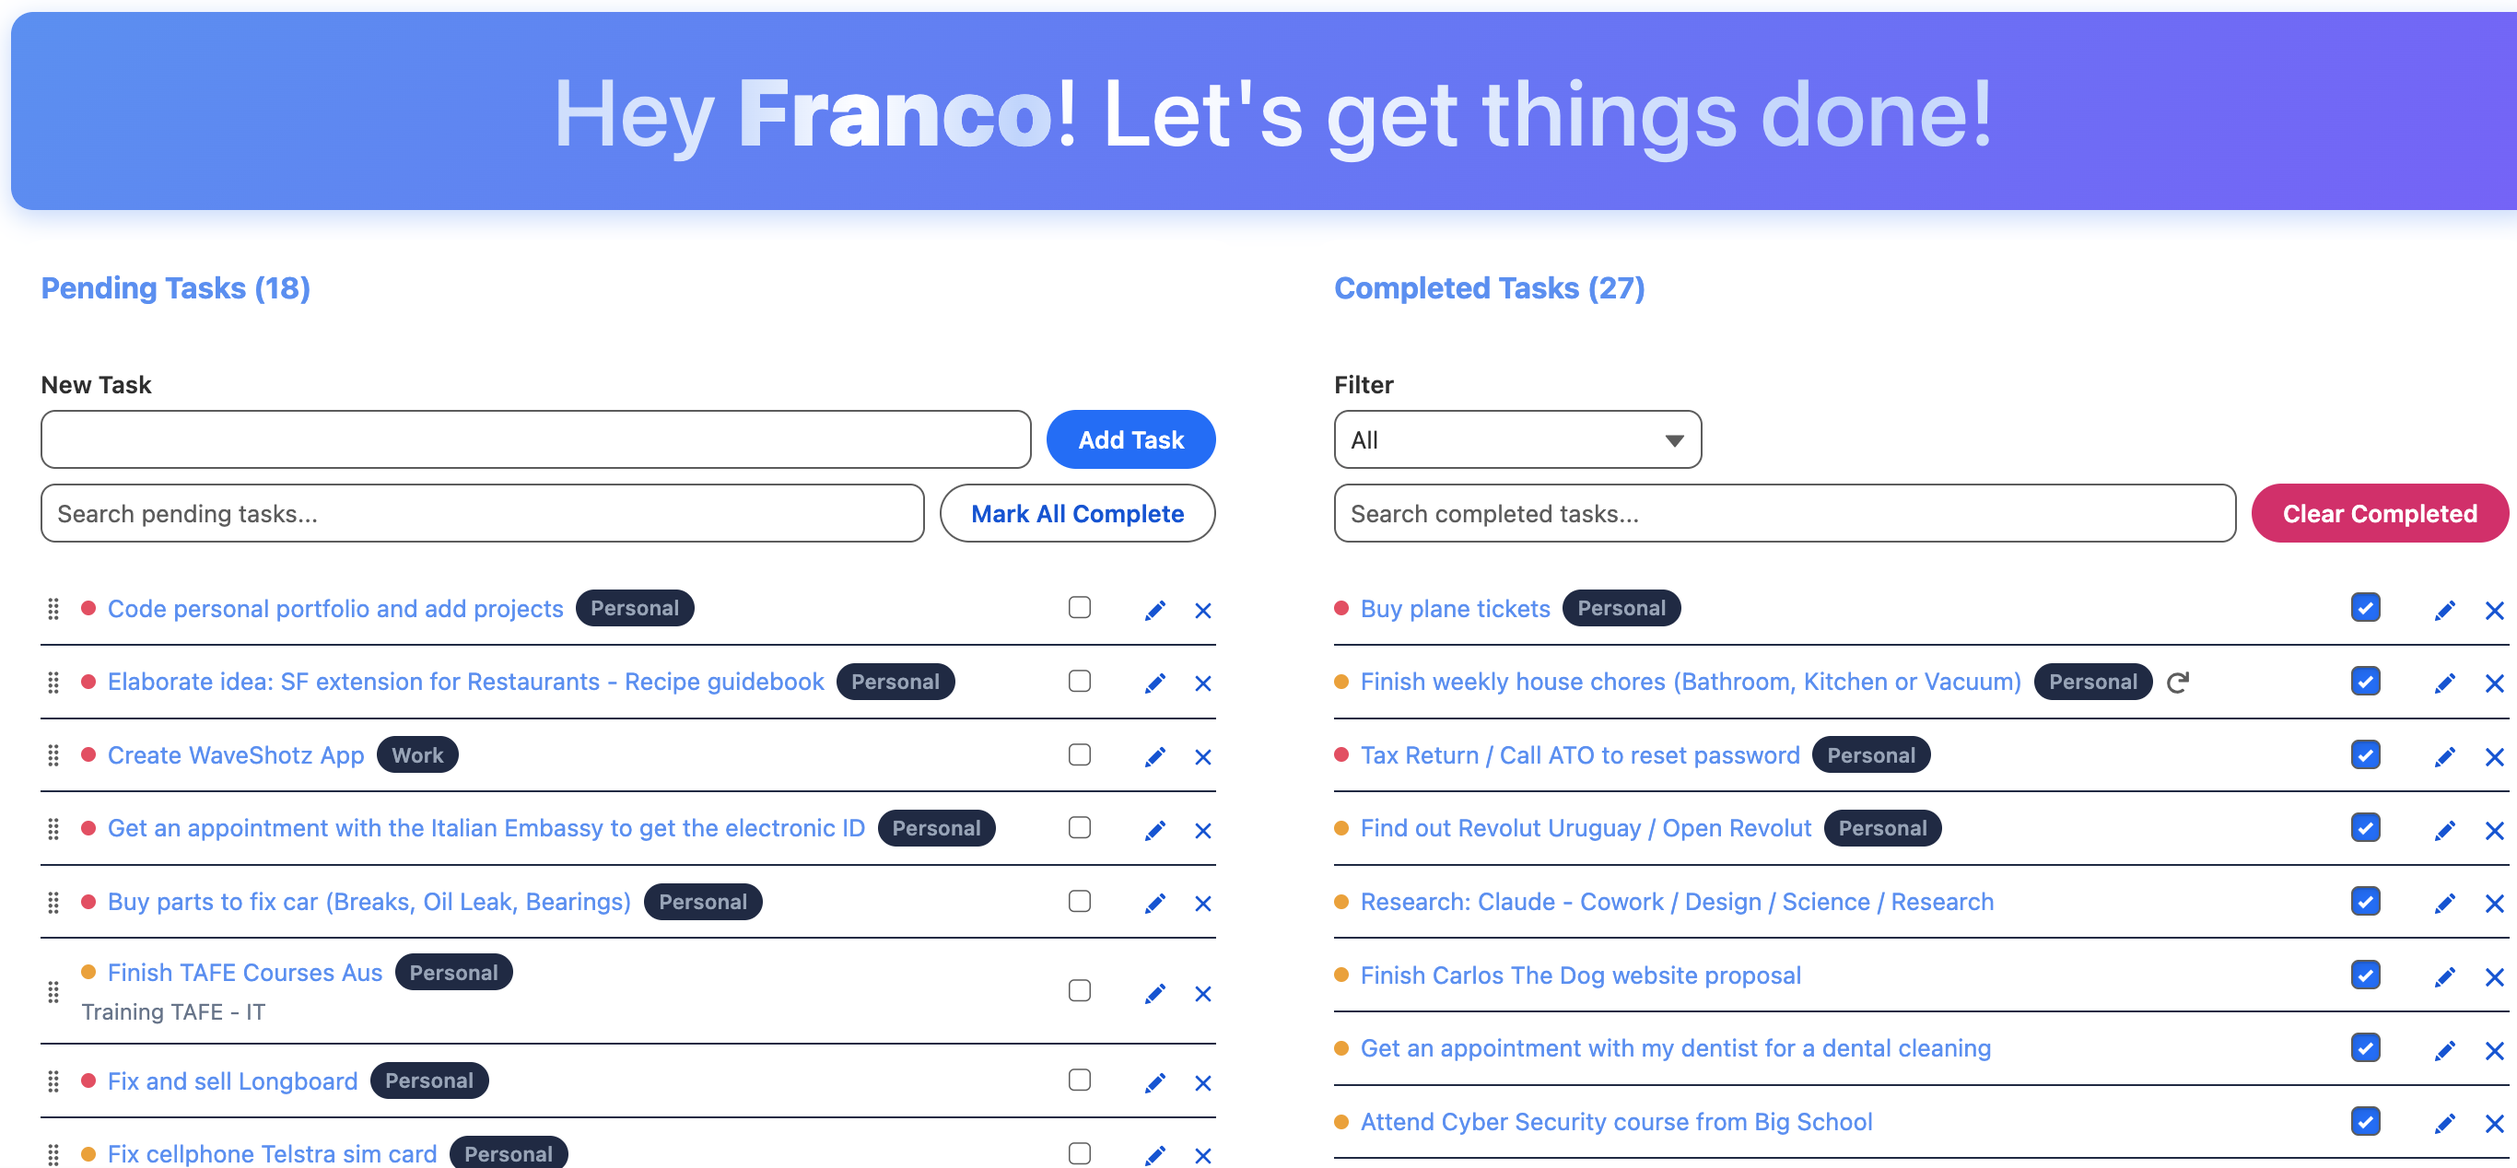
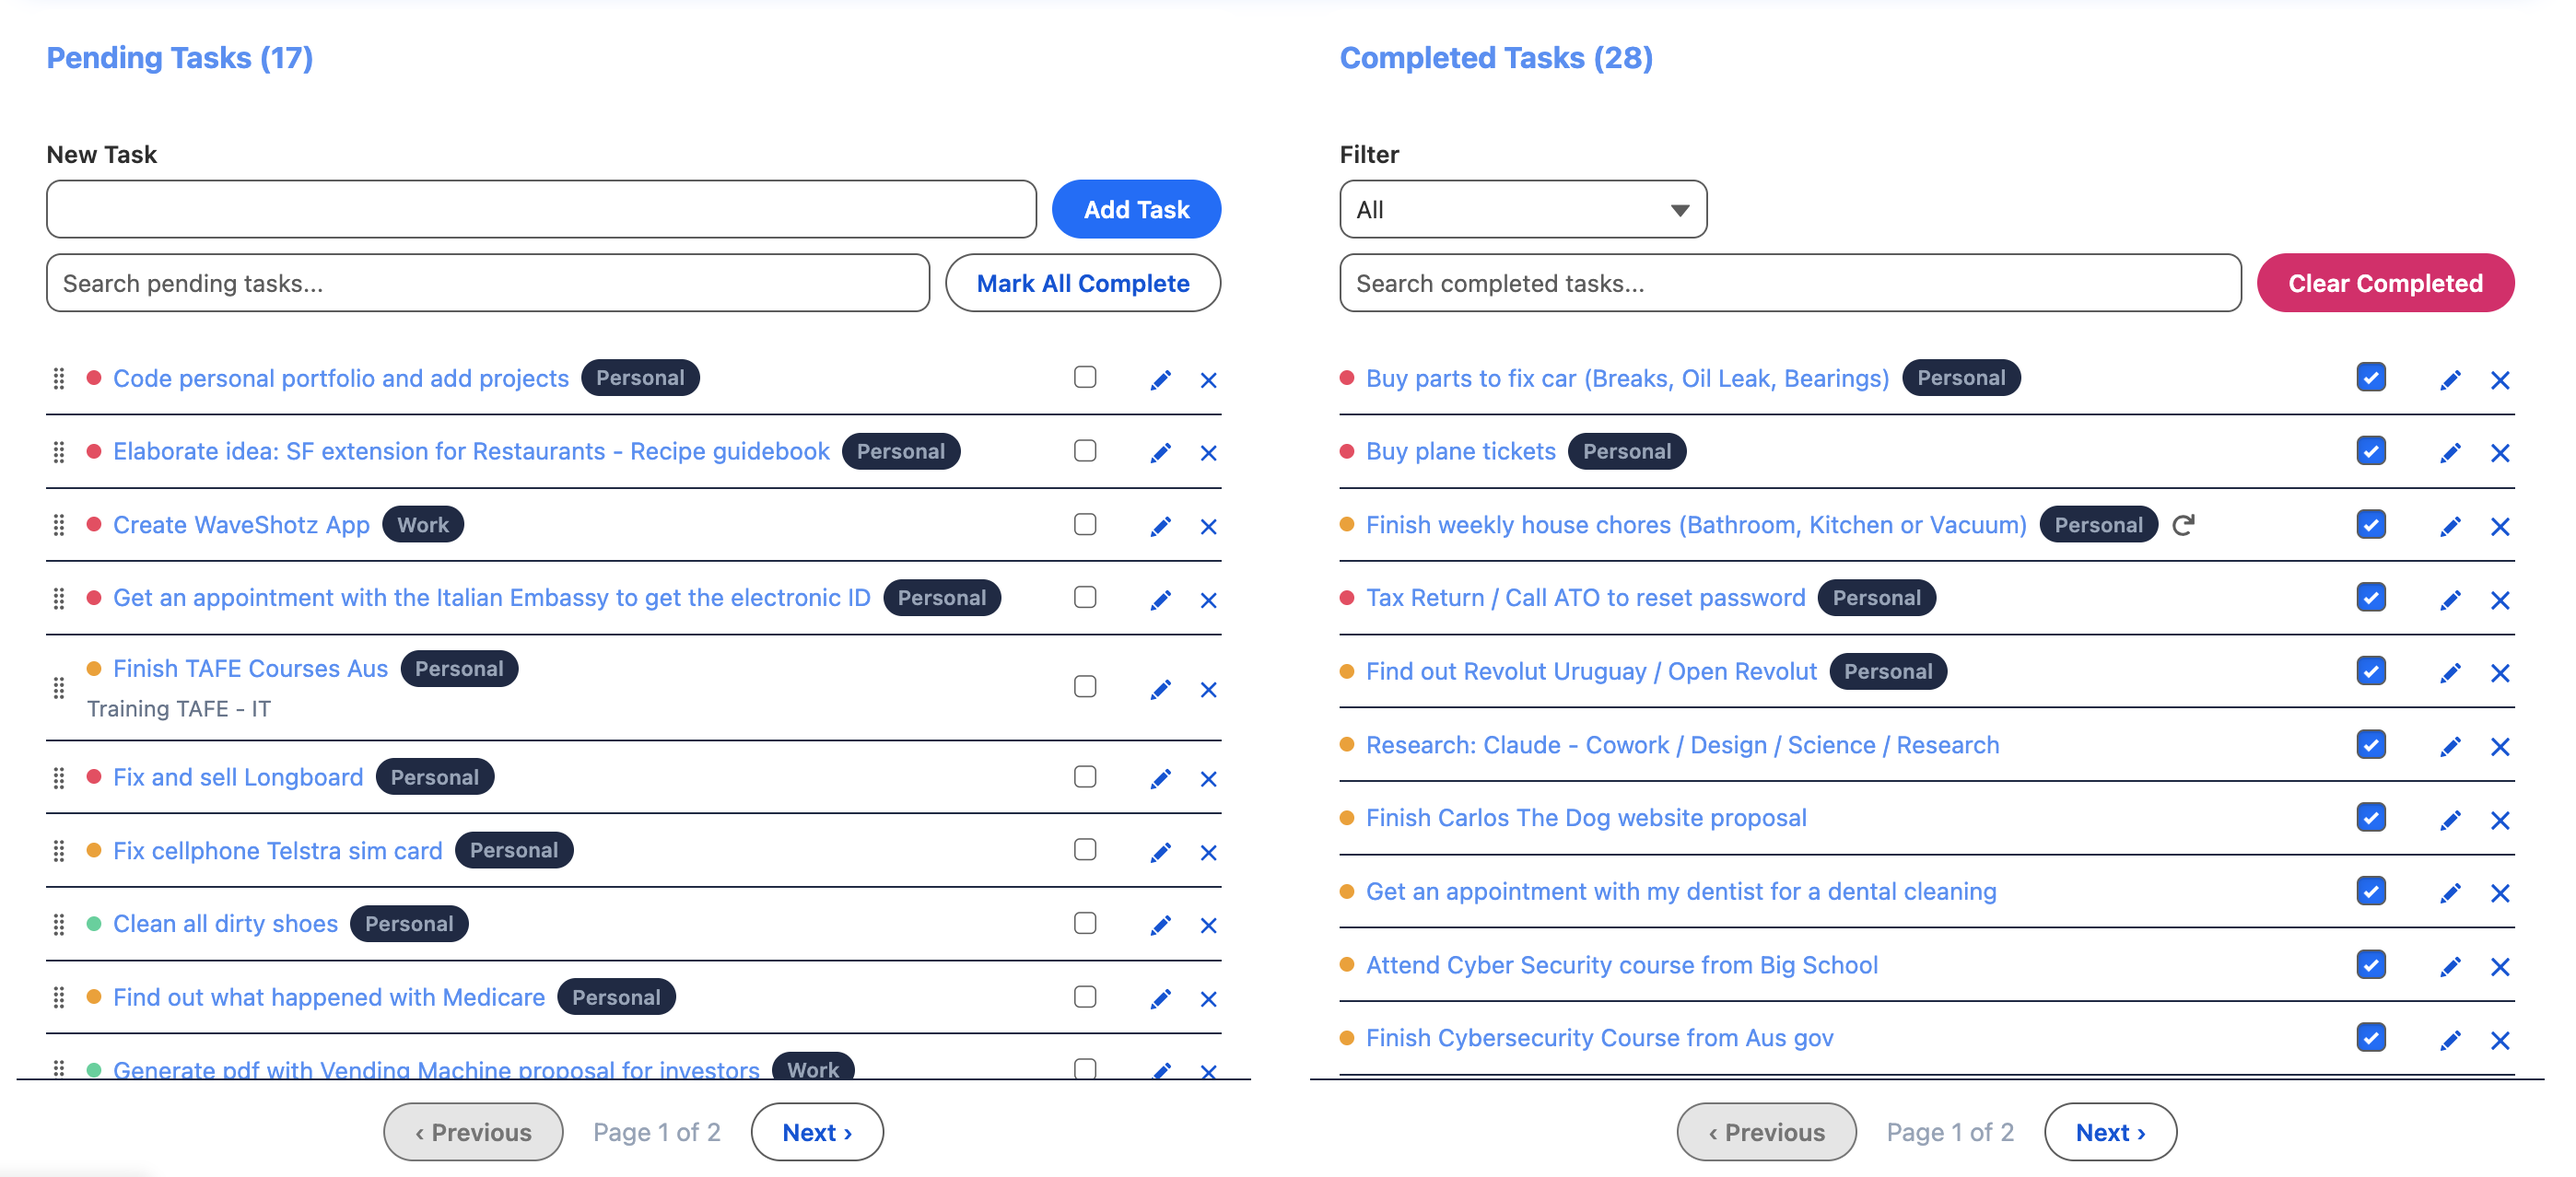
Update app overview screenshot to show pagination

diff --git a/README.md b/README.md
@@ -8,7 +8,7 @@ A secure, feature-rich personal task manager built entirely on the Salesforce Pl
 
 ![Motivational quote widget](screenshots/motivational-banner.png)
 
-**Pending and Completed lists side by side** — priority dots, category pills, search, and bulk actions (Mark All Complete / Clear Completed) on both sides:
+**Pending and Completed lists side by side** — priority dots, category pills, search, pagination, and bulk actions (Mark All Complete / Clear Completed) on both sides:
 
 ![Pending and Completed lists](screenshots/app-overview.png)
 
